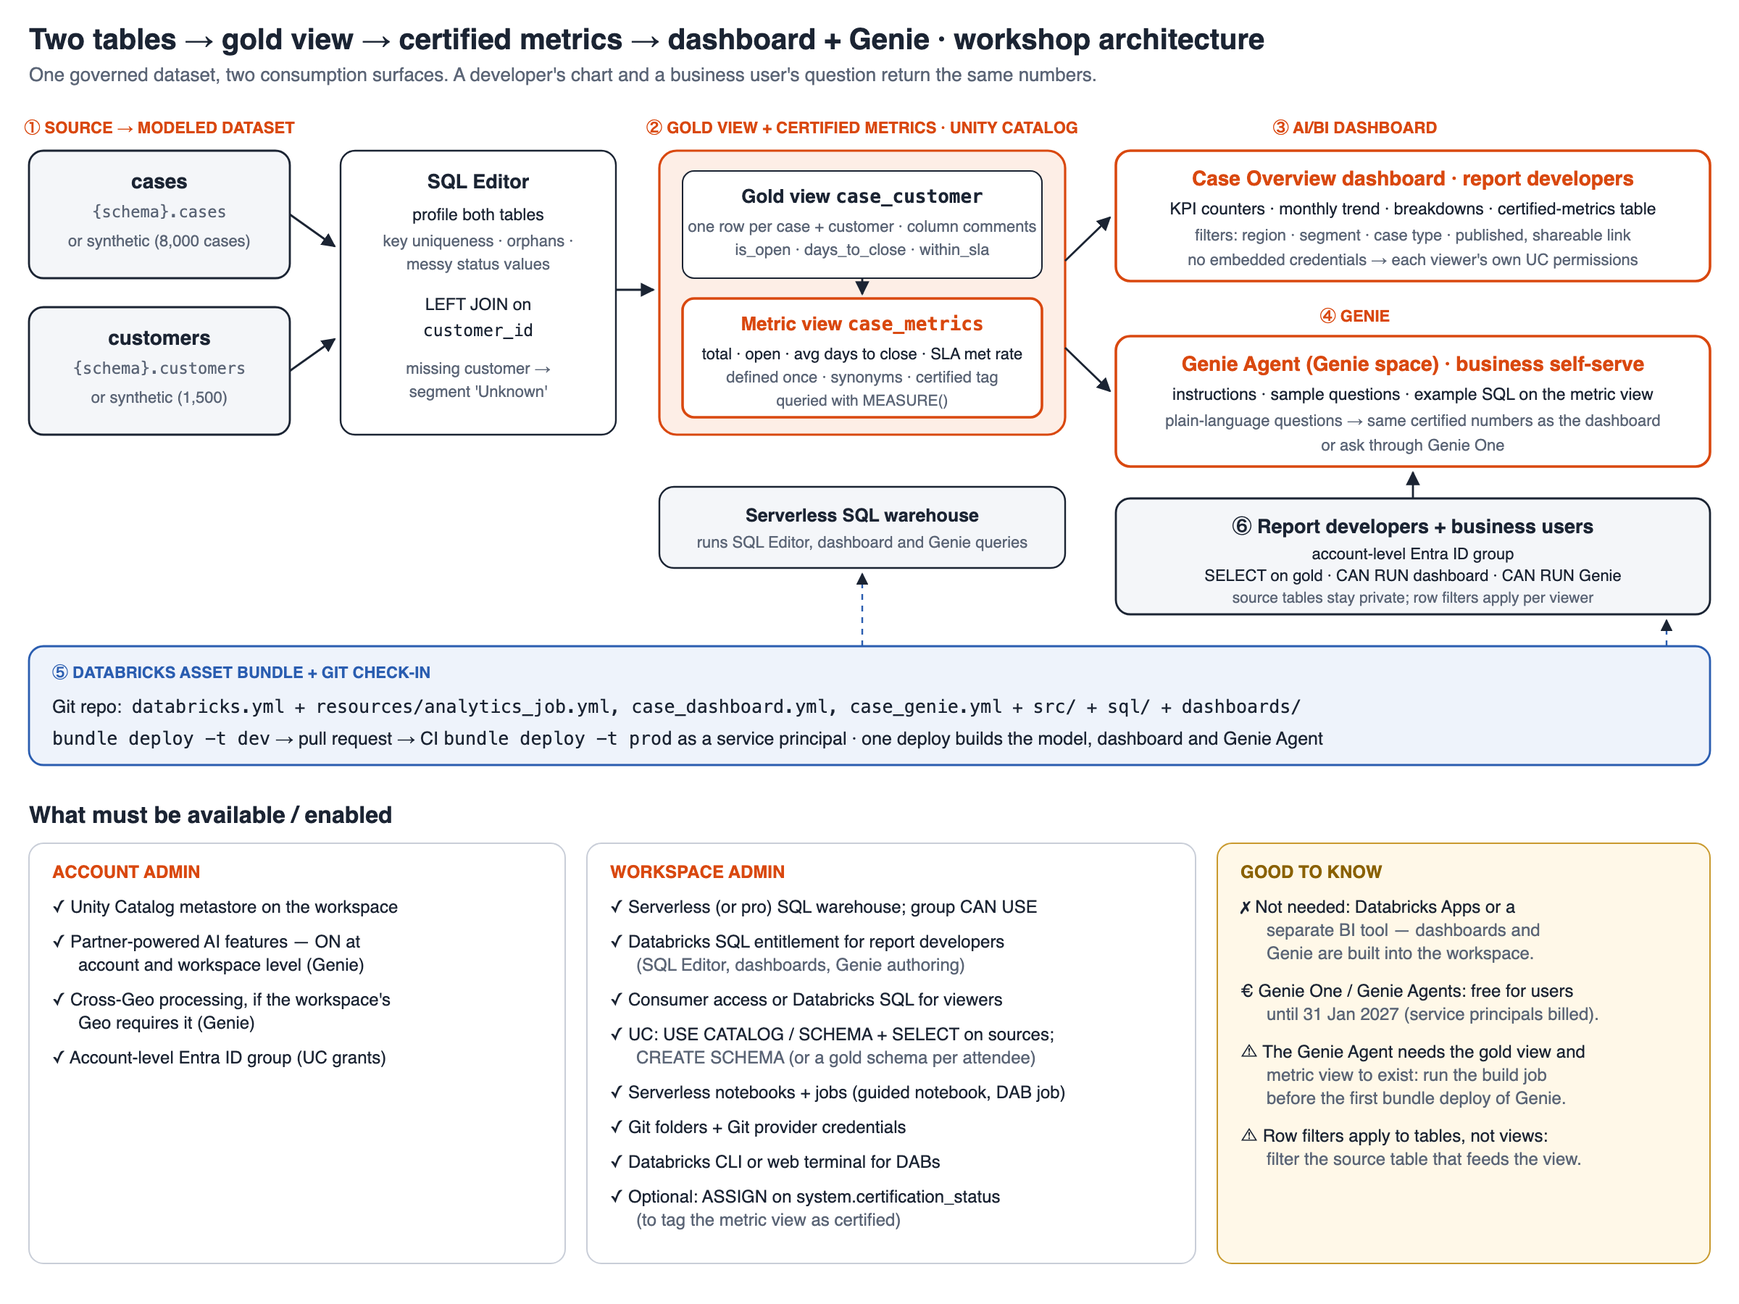
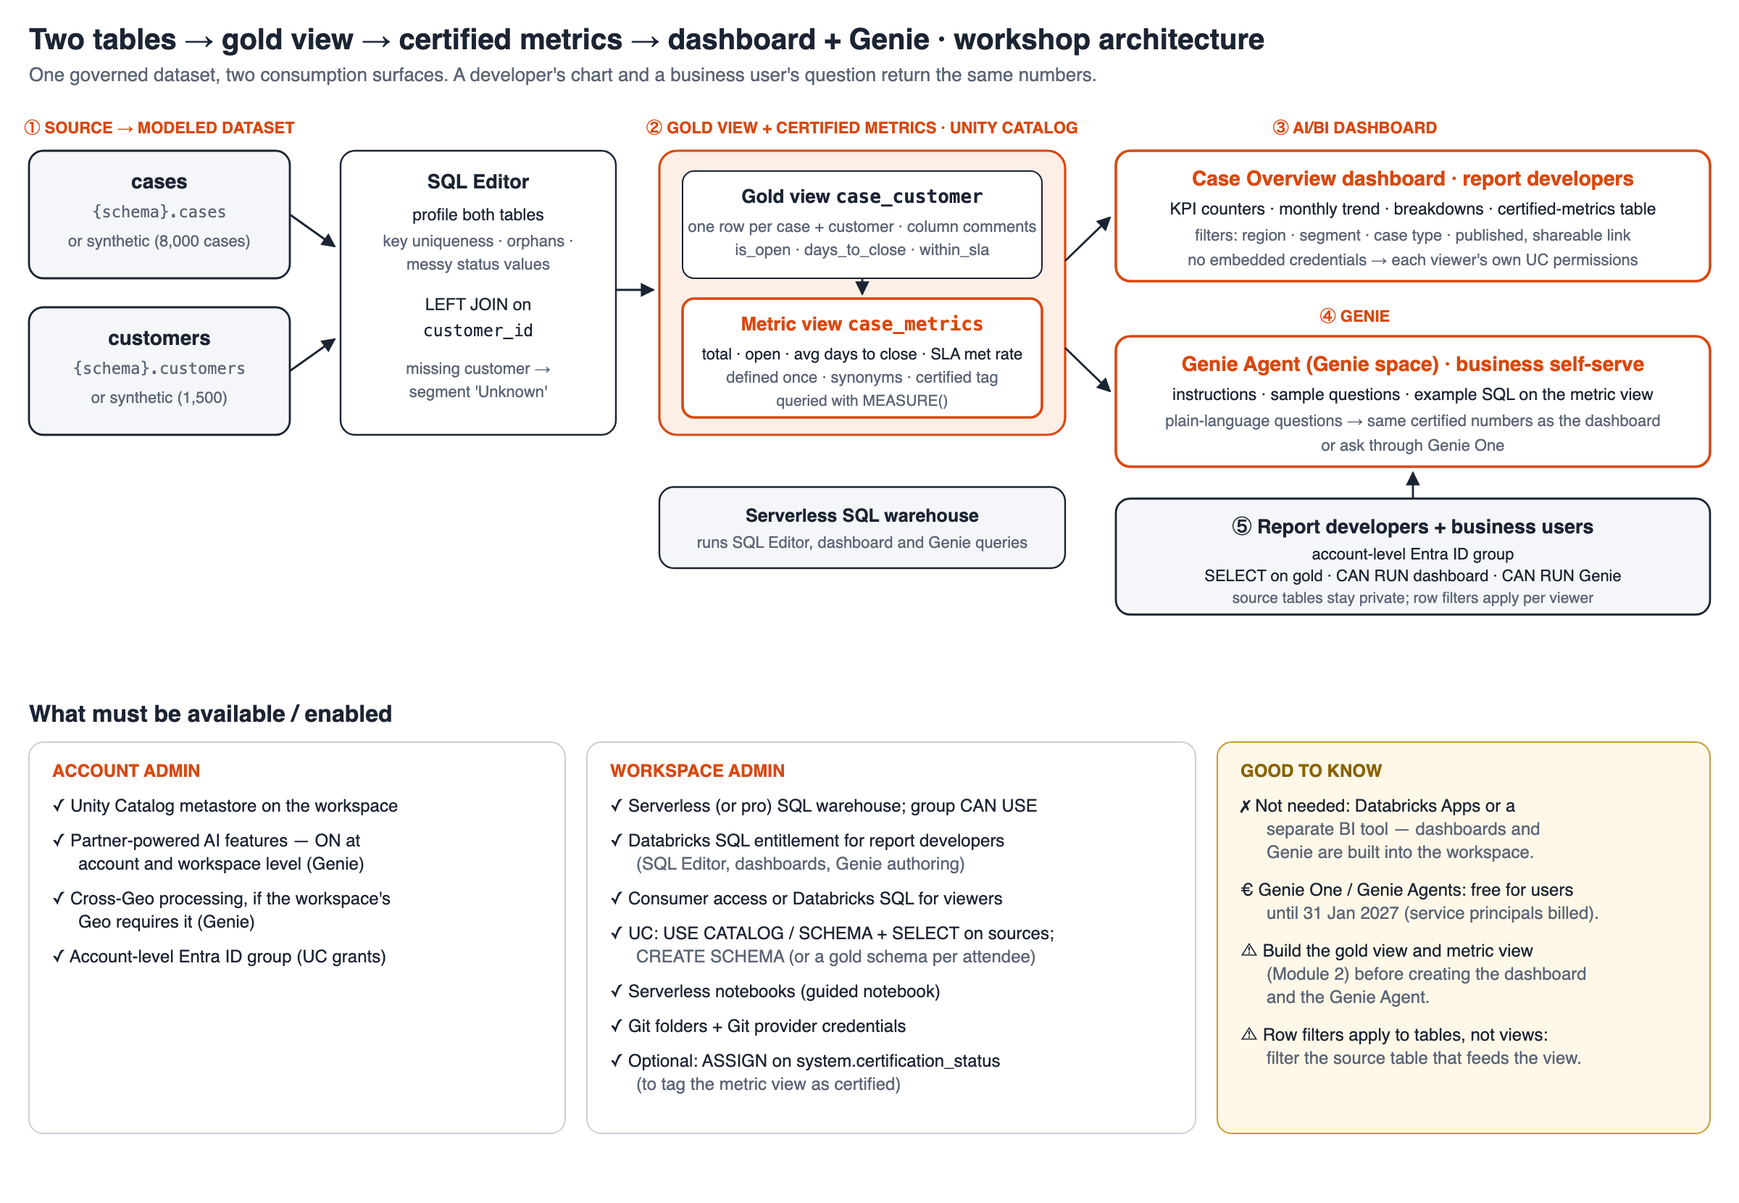
Remove the Databricks Asset Bundle module
Drop databricks.yml and resources/, the DAB module and all bundle commands.
Governance becomes Module 5 (20 min); the dashboard module returns to 50 min.
Genie setup moves to genie/instructions.md; diagram updated.

diff --git a/notebooks/Workshop_Steps.py b/notebooks/Workshop_Steps.py
@@ -4,7 +4,6 @@
 # MAGIC
 # MAGIC Run top to bottom on **serverless** compute from the workshop Git folder. Each module does in code what the
 # MAGIC facilitator shows in the UI (SQL Editor, dashboard editor, Genie), so attendees can catch up or re-run any step.
-# MAGIC Module 5 (DABs + Git check-in) runs from a terminal — see `WORKSHOP_STEPS.md`.
 # MAGIC
 # MAGIC | Module | What this notebook does |
 # MAGIC |---|---|
@@ -12,7 +11,7 @@
 # MAGIC | 2 · Gold view + certified metrics | Creates the documented gold view `case_customer` and the metric view `case_metrics` |
 # MAGIC | 3 · AI/BI dashboard | Creates and publishes the *Case Overview* dashboard from `dashboards/case_overview.lvdash.json` |
 # MAGIC | 4 · Genie | Creates a Genie Agent (Genie space) on the gold view and metric view, and asks it a question |
-# MAGIC | 6 · Governance & sharing | Unity Catalog grants, dashboard `CAN RUN`, Genie `CAN RUN` for a group |
+# MAGIC | 5 · Governance & sharing | Unity Catalog grants, dashboard `CAN RUN`, Genie `CAN RUN` for a group |
 # MAGIC
 # MAGIC Every resource gets your user name as a suffix, so attendees don't collide.
 
@@ -198,25 +197,7 @@ for att in msg.attachments or []:
 # COMMAND ----------
 
 # MAGIC %md
-# MAGIC ## Module 5 · DABs + Git check-in (terminal)
-# MAGIC The bundle (`databricks.yml` + `resources/*.yml`) declares the same build job, dashboard and Genie Agent:
-# MAGIC ```bash
-# MAGIC export BUNDLE_VAR_catalog=<catalog> BUNDLE_VAR_schema=<source schema> BUNDLE_VAR_target_schema=<gold schema>
-# MAGIC export BUNDLE_VAR_warehouse_id=<id> BUNDLE_VAR_group_name=<group>
-# MAGIC databricks bundle validate -t dev && databricks bundle deploy -t dev
-# MAGIC databricks bundle run analytics_build -t dev && databricks bundle deploy -t dev
-# MAGIC git checkout -b feature/<you> && git add -A && git commit -m "Case dashboard + Genie" && git push -u origin HEAD
-# MAGIC ```
-
-# COMMAND ----------
-
-print(f"databricks bundle generate dashboard --existing-id {dashboard_id}\n"
-      f"databricks bundle generate genie-space --existing-id {space_id}")
-
-# COMMAND ----------
-
-# MAGIC %md
-# MAGIC ## Module 6 · Governance, sharing & access control
+# MAGIC ## Module 5 · Governance, sharing & access control
 # MAGIC | Layer | Grant | Why |
 # MAGIC |---|---|---|
 # MAGIC | Data (Unity Catalog) | `USE CATALOG`, `USE SCHEMA`, `SELECT` on the gold schema | The dashboard (no embedded credentials) and Genie both query as the viewer |

diff --git a/WORKSHOP_STEPS.md b/WORKSHOP_STEPS.md
@@ -7,8 +7,7 @@ The flow:
 - **② Gold view + certified metrics:** a documented view, plus a metric view.
 - **③ AI/BI dashboard** for report developers.
 - **④ Genie Agent** for business self-serve, on the same data.
-- **⑤ DAB + Git check-in.**
-- **⑥ Governance, sharing and access control.**
+- **⑤ Governance, sharing and access control.**
 
 ![Architecture](docs/architecture.png)
 
@@ -18,10 +17,10 @@ The flow:
 |---|---|
 | `sql/01_profile_and_join.sql` | Module 1, for the SQL Editor: profiling queries and the join |
 | `sql/02_gold_view.sql`, `sql/03_metric_view.sql` | Module 2, for the SQL Editor: the gold view `case_customer` and the metric view `case_metrics` |
-| `src/00_setup.py` … `02_metric_view.py` | The same steps as notebooks, run by the build job (`setup` can also create synthetic data) |
+| `src/00_setup.py` … `02_metric_view.py` | The same steps as notebooks, run by the guided notebook (`setup` can also create synthetic data) |
 | `dashboards/case_overview.lvdash.json` | Module 3: the *Case Overview* AI/BI dashboard (answer key) |
-| `databricks.yml` + `resources/*.yml` | Module 5: the bundle, containing the build job `analytics_build`, the dashboard `case_overview` and the Genie Agent `case_genie` |
-| `notebooks/Workshop_Steps.py` | **Executable guide.** Runs modules 1, 2, 3, 4 and 6 in code. Use it for dry runs or as the answer key |
+| `genie/instructions.md` | Module 4: table descriptions, text instructions, example SQL and sample questions for the Genie Agent |
+| `notebooks/Workshop_Steps.py` | **Executable guide.** Runs modules 1 to 5 in code. Use it for dry runs or as the answer key |
 
 ---
 
@@ -44,7 +43,6 @@ The flow:
    - `CREATE SCHEMA` on the catalog, or pre-create a gold schema per attendee.
 8. **Optional:** grant `ASSIGN` on the `system.certification_status` governed tag, so attendees can mark the metric view as certified.
 9. Make this repo available in your Git provider. Attendees clone it as a **Git folder** and need Git credentials set under **Settings → Linked accounts**.
-10. Decide how attendees run the Databricks CLI for Module 5: on a laptop, or in the workspace **web terminal**.
 
 > **Not needed:** Databricks Apps, or any separate BI tool. AI/BI dashboards and Genie are built into the workspace.
 
@@ -71,12 +69,11 @@ Introductions and goals for the day. Check that everyone can log in, open the **
 
 | Platform area | What it does | Today |
 |---|---|---|
-| **Unity Catalog** | One governance layer: grants, row filters, column masks, lineage, audit, certified assets | Modules 2 and 6 |
+| **Unity Catalog** | One governance layer: grants, row filters, column masks, lineage, audit, certified assets | Modules 2 and 5 |
 | **Metric views** | Business measures defined once in Unity Catalog and reused by dashboards, Genie and SQL | Module 2 |
 | **Databricks SQL** | Serverless SQL warehouses and the SQL Editor | Modules 1 and 2 |
 | **AI/BI dashboards** | Governed, shareable dashboards built into the workspace | Module 3 |
 | **Genie** | Natural-language questions over governed data (Genie Agents and Genie One) | Module 4 |
-| **Asset Bundles & Git folders** | Infrastructure as code and CI/CD for the dashboard, Genie Agent and jobs | Module 5 |
 
 End on the architecture diagram: one dataset, two surfaces.
 
@@ -118,12 +115,12 @@ End on the architecture diagram: one dataset, two surfaces.
 
 ## 1:20 · Break (15 min)
 
-## 1:35 · Module 3 — Build the AI/BI dashboard (45 min)
+## 1:35 · Module 3 — Build the AI/BI dashboard (50 min)
 
 1. Go to **Dashboards → Create dashboard** and open the **Data** tab. Add two datasets:
    - **Cases (gold view):** an SQL dataset that selects `case_id, opened_month, case_type, channel, priority, segment, region, is_open, days_to_close, within_sla` from `case_customer`. This dataset powers the interactive visuals and filters.
    - **Certified metrics:** choose **Add data → `case_metrics`** to use the metric view directly. Or use SQL with `MEASURE()` grouped by `segment, region`.
-2. On the **Canvas**, build the visuals. `dashboards/case_overview.lvdash.json` is the answer key.
+2. On the **Canvas**, build the visuals. `dashboards/case_overview.lvdash.json` is the answer key: import it with **Dashboards → Create → Import dashboard from file**, then set each dataset's catalog and schema to your gold schema in the **Data** tab.
 
    | Visual | Field or measure |
    |---|---|
@@ -145,10 +142,10 @@ End on the architecture diagram: one dataset, two surfaces.
    - Copy the link.
 6. **Check:** with no filters, the counters must match the certified table's totals. *Same numbers, one definition.*
 
-## 2:20 · Module 4 — Create the Genie Agent (35 min)
+## 2:25 · Module 4 — Create the Genie Agent (35 min)
 
 1. Go to **Genie → New**, add `case_customer` and `case_metrics`, and choose the serverless warehouse.
-2. Under **Instructions**, paste the text instructions from `resources/case_genie.yml`:
+2. Under **Instructions**, paste the text instructions from `genie/instructions.md`:
    - prefer the metric view, using `MEASURE()`;
    - define *open*, *SLA* and *days to close*;
    - explain the `Unknown` segment;
@@ -160,56 +157,15 @@ End on the architecture diagram: one dataset, two surfaces.
    - *Which channel takes longest to close?*, then follow up with *…and for VIP customers only?*
 5. In **Monitor**, look at the questions asked and the SQL that was generated. Turn a good answer into a new example query.
 
-## 2:55 · Break (10 min)
+## 3:00 · Break (10 min)
 
-## 3:05 · Module 5 — Create the DAB and check it in (10 min)
+## 3:10 · Module 5 — Governance, sharing & access control (20 min)
 
-**1 · Capture the UI-built objects as YAML**
-
-Compare each generated file with `resources/*.yml`, then delete the generated ones.
-
-```bash
-databricks bundle generate dashboard   --existing-id <dashboard id>
-databricks bundle generate genie-space --existing-id <space id>
-```
-
-**2 · Set the variables once per terminal**
-
-This form works in bash and zsh.
-
-```bash
-export BUNDLE_VAR_catalog=<catalog>
-export BUNDLE_VAR_schema=<source schema>
-export BUNDLE_VAR_target_schema=<gold schema>_dab
-export BUNDLE_VAR_warehouse_id=<warehouse id>
-export BUNDLE_VAR_group_name=workshop-users
-```
-
-**3 · Deploy, build and check in**
-
-```bash
-databricks bundle validate -t dev
-databricks bundle deploy   -t dev                 # creates the build job and the dashboard
-databricks bundle run analytics_build -t dev      # builds the gold view and metric view
-databricks bundle deploy   -t dev                 # now creates the Genie Agent (its tables exist)
-
-git checkout -b feature/<you>-case-analytics
-git add -A && git commit -m "Case dashboard and Genie Agent as a bundle"
-git push -u origin HEAD                           # then open a pull request
-```
-
-What to point out:
-- `dataset_catalog` and `dataset_schema` in `resources/case_dashboard.yml` point the dashboard's unqualified table names at each environment's gold schema. **The same dashboard file works in dev and prod.**
-- Dev mode prefixes the dashboard and Genie names with `[dev <you>]`.
-- **Promotion:** CI runs `bundle deploy -t prod` as a service principal after the pull request merges.
-
-## 3:15 · Module 6 — Governance, sharing & access control (15 min)
-
-| Layer | Grant | Where (bundle) |
+| Layer | Grant | Where |
 |---|---|---|
 | Data | `USE CATALOG` and `USE SCHEMA`, plus `SELECT` on the **gold** schema | Catalog Explorer → Permissions, or `GRANT …` |
-| Dashboard | **Can run** (published) | Dashboard → Share (`resources/case_dashboard.yml`) |
-| Genie Agent | **Can run** | Genie → Share (`resources/case_genie.yml`) |
+| Dashboard | **Can run** (published) | Dashboard → Share |
+| Genie Agent | **Can run** | Genie → Share |
 
 ```sql
 GRANT USE CATALOG ON CATALOG <catalog> TO `workshop-users`;
@@ -228,9 +184,9 @@ Discussion points:
   ```
   Group members now see only Web and Phone cases in both the dashboard and Genie. Remove the filter with `ALTER TABLE … DROP ROW FILTER;`.
 
-Wrap up: one governed dataset, two surfaces, one set of numbers, deployed as code.
+Wrap up: one governed dataset, two surfaces, one set of numbers.
 
-**Clean up:** run `databricks bundle destroy -t dev`, then run the notebook's last cell with `cleanup = yes`.
+**Clean up:** run the notebook's last cell with `cleanup = yes`.
 
 ---
 
@@ -241,8 +197,6 @@ Wrap up: one governed dataset, two surfaces, one set of numbers, deployed as cod
 | `MEASURE` errors such as *cannot resolve* | Every measure from a metric view must be wrapped in `MEASURE(<name>)`. Dimensions are not. |
 | The join returns more rows than `cases` | `customer_id` isn't unique in `customers`. Run profiling query 2 and deduplicate first. |
 | Dashboard viewers see *Permission denied* | Embed credentials is off, so grant the viewer `SELECT` on the gold schema, or turn embedding on. |
-| `bundle deploy`: *Failed to fetch tables for the agent* | The gold view or metric view doesn't exist yet. Run `bundle run analytics_build`, then deploy again. |
-| `bundle validate`: *no value assigned to required variable* | Export `BUNDLE_VAR_schema`, `BUNDLE_VAR_target_schema` and `BUNDLE_VAR_warehouse_id`. In zsh, `V="--var=…"; … $V` silently passes nothing. |
 | The Genie sidebar icon shows but Genie won't open | Partner-powered AI features are off (account admin). |
 | `GRANT … TO workshop-users` fails with *PRINCIPAL_DOES_NOT_EXIST* | The group is workspace-local. Use an account-level group. |
 | `SET TAGS ('system.certification_status' …)` is denied | You need `ASSIGN` on that governed tag. Skip it, or ask an admin. |

diff --git a/README.md b/README.md
@@ -9,8 +9,7 @@ The steps:
 - **② Gold view + certified metrics:** a documented view, plus a Unity Catalog metric view.
 - **③ AI/BI dashboard** with filters and a shareable link.
 - **④ Genie Agent** with instructions and sample questions.
-- **⑤ Databricks Asset Bundle** and a Git check-in.
-- **⑥ Governance, sharing and access control.**
+- **⑤ Governance, sharing and access control.**
 
 ![Architecture](docs/architecture.png)
 
@@ -19,9 +18,9 @@ The steps:
 | Path | What it is |
 |---|---|
 | `sql/` | Scripts to paste into the SQL Editor: profiling and the join, the gold view, and the metric view |
-| `src/00_setup.py` … `02_metric_view.py` | The same steps as notebooks for the build job; `setup` can also create synthetic `cases` and `customers` tables |
-| `dashboards/case_overview.lvdash.json` | The *Case Overview* AI/BI dashboard: KPI counters, trend, breakdowns, a certified-metrics table, and filters |
-| `databricks.yml` + `resources/` | The bundle: build job `analytics_build`, dashboard `case_overview`, and Genie Agent `case_genie`, with `dev` and `prod` targets |
+| `src/00_setup.py` … `02_metric_view.py` | The same steps as notebooks, run by the guided notebook; `setup` can also create synthetic `cases` and `customers` tables |
+| `dashboards/case_overview.lvdash.json` | The *Case Overview* AI/BI dashboard: KPI counters, trend, breakdowns, a certified-metrics table, and filters (answer key) |
+| `genie/instructions.md` | Genie Agent setup: table descriptions, text instructions, example SQL and sample questions |
 | `notebooks/Workshop_Steps.py` | **Executable guide**: profiles, builds the gold and metric views, creates and publishes the dashboard, creates the Genie Agent, and applies grants |
 | `WORKSHOP_STEPS.md` | **Step-by-step execution guide**: admin prerequisites, UI steps per module, commands, troubleshooting |
 | `docs/architecture.svg` / `.png` | The architecture, plus what must be enabled |
@@ -31,43 +30,30 @@ The steps:
 | Time | Module |
 |---|---|
 | 0:00–0:05 | Welcome and objectives |
-| 0:05–0:15 | **Overview of Databricks**: Unity Catalog, metric views, Databricks SQL, AI/BI dashboards, Genie, Asset Bundles; where each module fits |
+| 0:05–0:15 | **Overview of Databricks**: Unity Catalog, metric views, Databricks SQL, AI/BI dashboards, Genie; where each module fits |
 | 0:15–0:45 | **1 · Source to modeled dataset**: profile both tables, confirm the key, handle orphans and messy values, write the join |
 | 0:45–1:20 | **2 · Gold view + certified metrics**: the documented view `case_customer` and the metric view `case_metrics`; lineage; the certified tag |
 | 1:20–1:35 | Break |
-| 1:35–2:20 | **3 · AI/BI dashboard**: datasets, KPI / trend / breakdown visuals, filters and a parameter; publish and share |
-| 2:20–2:55 | **4 · Genie Agent**: instructions, sample questions, example SQL; business-style questions; Monitor |
-| 2:55–3:05 | Break |
-| 3:05–3:15 | **5 · DAB and check-in**: `bundle generate`, `validate`, `deploy`, `run`; branch, commit, PR |
-| 3:15–3:30 | **6 · Governance, sharing and access control**: gold-only grants, dashboard and Genie `CAN RUN`, embedded credentials, row-filter demo |
+| 1:35–2:25 | **3 · AI/BI dashboard**: datasets, KPI / trend / breakdown visuals, filters and a parameter; publish and share |
+| 2:25–3:00 | **4 · Genie Agent**: instructions, sample questions, example SQL; business-style questions; Monitor |
+| 3:00–3:10 | Break |
+| 3:10–3:30 | **5 · Governance, sharing and access control**: gold-only grants, dashboard and Genie `CAN RUN`, embedded credentials, row-filter demo |
 
 ## What must be enabled
 
 | Who | What |
 |---|---|
 | Account admin | Unity Catalog metastore · **partner-powered AI features** (Genie needs them) · cross-Geo processing if your Geo requires it · an **account-level** Entra ID group for attendees and viewers |
-| Workspace admin | Serverless (or pro) SQL warehouse with `CAN USE` for the group · **Databricks SQL** entitlement for report developers; consumer access for viewers · UC `USE CATALOG` / `USE SCHEMA` / `SELECT` on the sources, plus `CREATE SCHEMA` · serverless notebooks and jobs · Git folders · Databricks CLI or web terminal · optionally `ASSIGN` on `system.certification_status` |
+| Workspace admin | Serverless (or pro) SQL warehouse with `CAN USE` for the group · **Databricks SQL** entitlement for report developers; consumer access for viewers · UC `USE CATALOG` / `USE SCHEMA` / `SELECT` on the sources, plus `CREATE SCHEMA` · serverless notebooks · Git folders · optionally `ASSIGN` on `system.certification_status` |
 | Not needed | Databricks Apps or a separate BI tool |
 
-## Quick start (bundle)
+## Quick start
 
-```bash
-databricks auth login --host https://<workspace-url>
+1. In the workspace, create a **Git folder** from this repo.
+2. Open `notebooks/Workshop_Steps` and set the widgets: `catalog`, `schema` (the one holding `cases` and `customers`), `warehouse_id` and `group_name`. If you have no data yet, set *Synthetic data if missing* to `true`.
+3. Click **Run all**. About 10 minutes later you have the gold view, the metric view, a published dashboard, a Genie Agent and the grants.
 
-export BUNDLE_VAR_catalog=main
-export BUNDLE_VAR_schema=crm                      # schema that holds cases + customers
-export BUNDLE_VAR_target_schema=crm_gold_<you>    # where the gold view and metric view are created
-export BUNDLE_VAR_warehouse_id=<sql warehouse id>
-export BUNDLE_VAR_group_name=<account-level group>
-# export BUNDLE_VAR_create_sample_data=true       # no data yet? generate synthetic cases + customers
-
-databricks bundle validate -t dev
-databricks bundle deploy   -t dev      # first time: creates the job and the dashboard; Genie needs the views first
-databricks bundle run analytics_build -t dev
-databricks bundle deploy   -t dev      # creates the Genie Agent
-```
-
-**Without a terminal:** import the repo as a Git folder, open `notebooks/Workshop_Steps`, set the widgets, and click **Run all**.
+To build it by hand instead, follow `WORKSHOP_STEPS.md`, using the scripts in `sql/` and the setup in `genie/instructions.md`.
 
 **Your own tables** need these columns:
 - `cases(case_id, customer_id, case_type, channel, priority, status, opened_date, closed_date)`

diff --git a/genie/instructions.md b/genie/instructions.md
@@ -1,0 +1,48 @@
+# Genie Agent setup — Cases & Customers (Module 4)
+
+Paste these into the Genie Agent (**Genie → New**, add `<catalog>.<gold_schema>.case_customer` and
+`<catalog>.<gold_schema>.case_metrics`, choose the serverless SQL warehouse). The guided notebook creates the same agent.
+
+## Title and description
+
+- **Title:** Cases & Customers — Genie
+- **Description:** Ask about case volumes, open cases, days to close and SLA by segment, region, case type and channel.
+
+## Table descriptions
+
+| Table | Description |
+|---|---|
+| `case_customer` | Gold view: one row per case joined to its customer (segment, region, VIP), with status, days_to_close and within_sla. |
+| `case_metrics` | Certified metric view: total_cases, open_cases, avg_days_to_close, sla_met_rate, customers_with_cases. Query measures with MEASURE(). |
+
+## Text instructions
+
+```
+You answer questions about customer service cases.
+- Prefer the certified metric view case_metrics for KPIs; use MEASURE(<measure>) and GROUP BY the dimensions asked for.
+- "Open" means not closed (status open or pending). "SLA" means sla_met_rate: closed within the target days for the priority (high 2, medium 5, low 10).
+- "Days to close" is avg_days_to_close and only counts closed cases.
+- Segment 'Unknown' means the case's customer is missing from the customer master; mention it if it appears.
+- Show rates as percentages with one decimal and days with one decimal.
+```
+
+## Example SQL queries
+
+**How many cases are open by segment?**
+```sql
+SELECT segment, MEASURE(open_cases) AS open_cases, MEASURE(total_cases) AS total_cases
+FROM <catalog>.<gold_schema>.case_metrics GROUP BY ALL ORDER BY open_cases DESC
+```
+
+**What is the SLA met rate by priority?**
+```sql
+SELECT priority, ROUND(100 * MEASURE(sla_met_rate), 1) AS sla_met_pct, MEASURE(closed_cases) AS closed_cases
+FROM <catalog>.<gold_schema>.case_metrics GROUP BY ALL ORDER BY sla_met_pct
+```
+
+## Sample questions
+
+- How many cases are open by segment?
+- What is the SLA met rate by priority?
+- Which channel has the longest average days to close?
+- Show monthly case volumes for Complaints over the last 6 months
